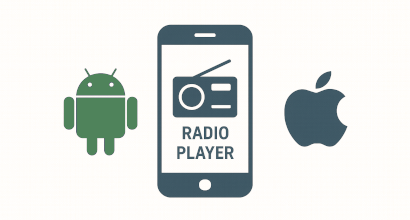
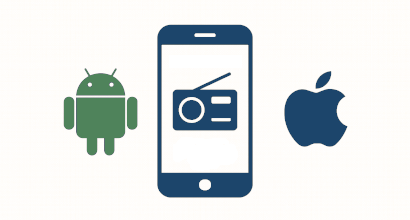
Change image colors, add youtube video link

Changed region(s): [[0.3805, 0.1091, 0.6146, 0.9], [0.6732, 0.3273, 0.8488, 0.6818]]

diff --git a/content/en/advantages/apps.md b/content/en/advantages/apps.md
@@ -3,4 +3,4 @@ title: "Android and iOs application for your radio"
 date: 2024-08-18T11:06:23+03:00
 ---
 
-All our users have the option to create mobile applications for Android and iOS platforms which are deeply integrated with our Internet radio control panel. We have created our own application engine, which is optimized for listening to the radio and takes into account all the subtleties of working on the device, for example, reconnecting to the radio stream in case of loss of connection, full Bluetooth functionality support, and so on. We have been developing applications since 2011 and have already published more than 200 different applications on Google Play and the Apple App Store. We develop both universal applications that represent standard functionality which are fully customizable for radio (logos, streams and any branding) and are inexpensive, and we can also develope a completely individual application of any complexity individually.
+All our users have the option to create mobile applications for Android and iOS platforms which are deeply integrated with our Internet radio control panel. We have created our own application engine, which is optimized for listening to the radio and takes into account all the subtleties of working on the device, for example, reconnecting to the radio stream in case of loss of connection, full Bluetooth functionality support, and so on. We have been developing applications since 2011 and have already published more than 200 different applications on Google Play and the Apple App Store. We develop both universal applications that represent standard functionality which are fully customizable for radio (logos, streams and any branding) and are inexpensive, and we can also develope a completely individual application of any complexity individually. See our [app creation guide on Youtube](https://youtu.be/4UmvmazxkH4).
